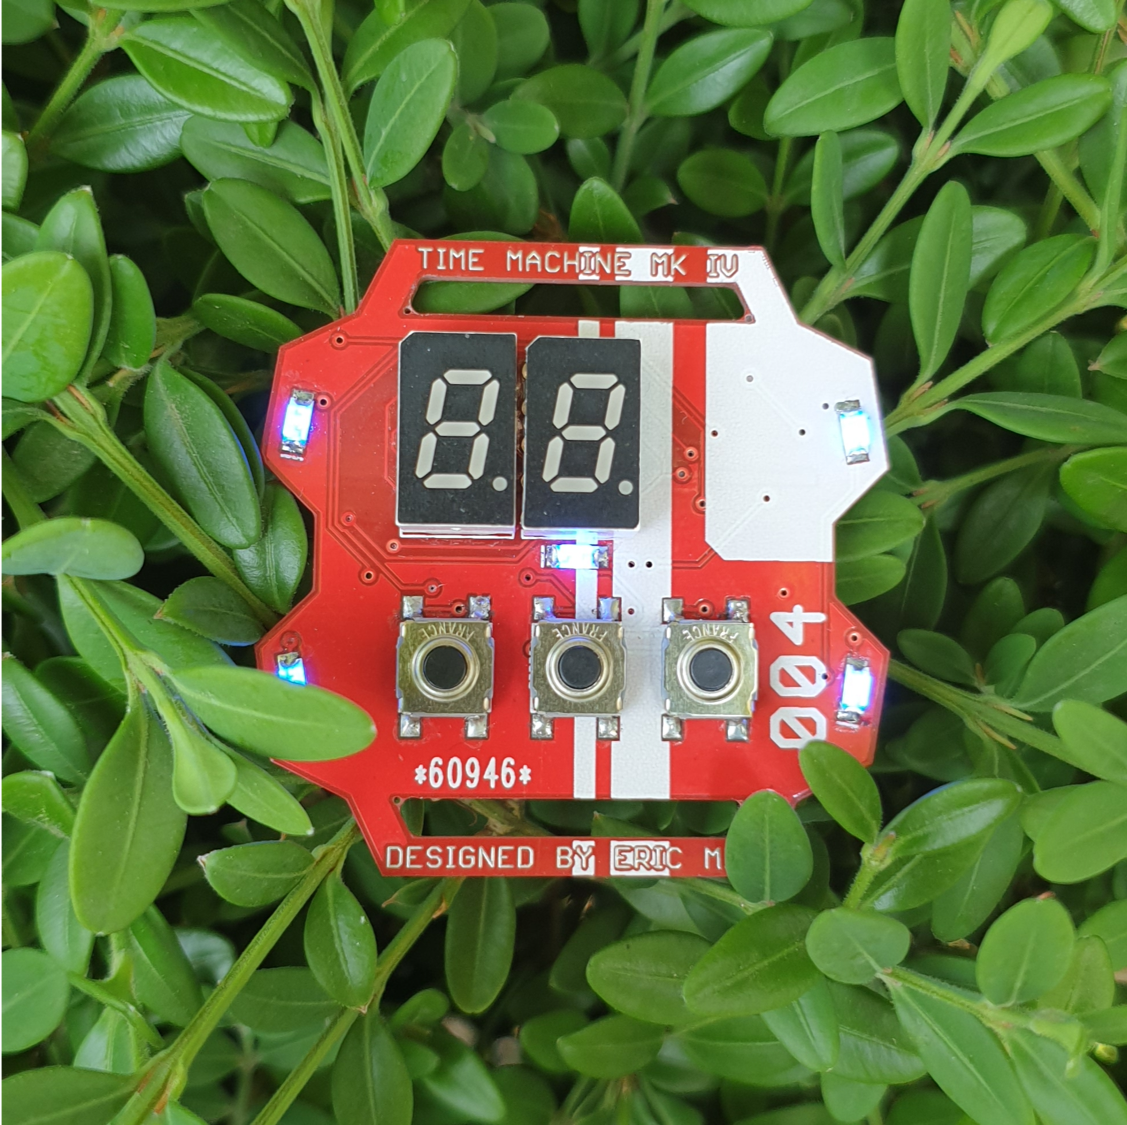
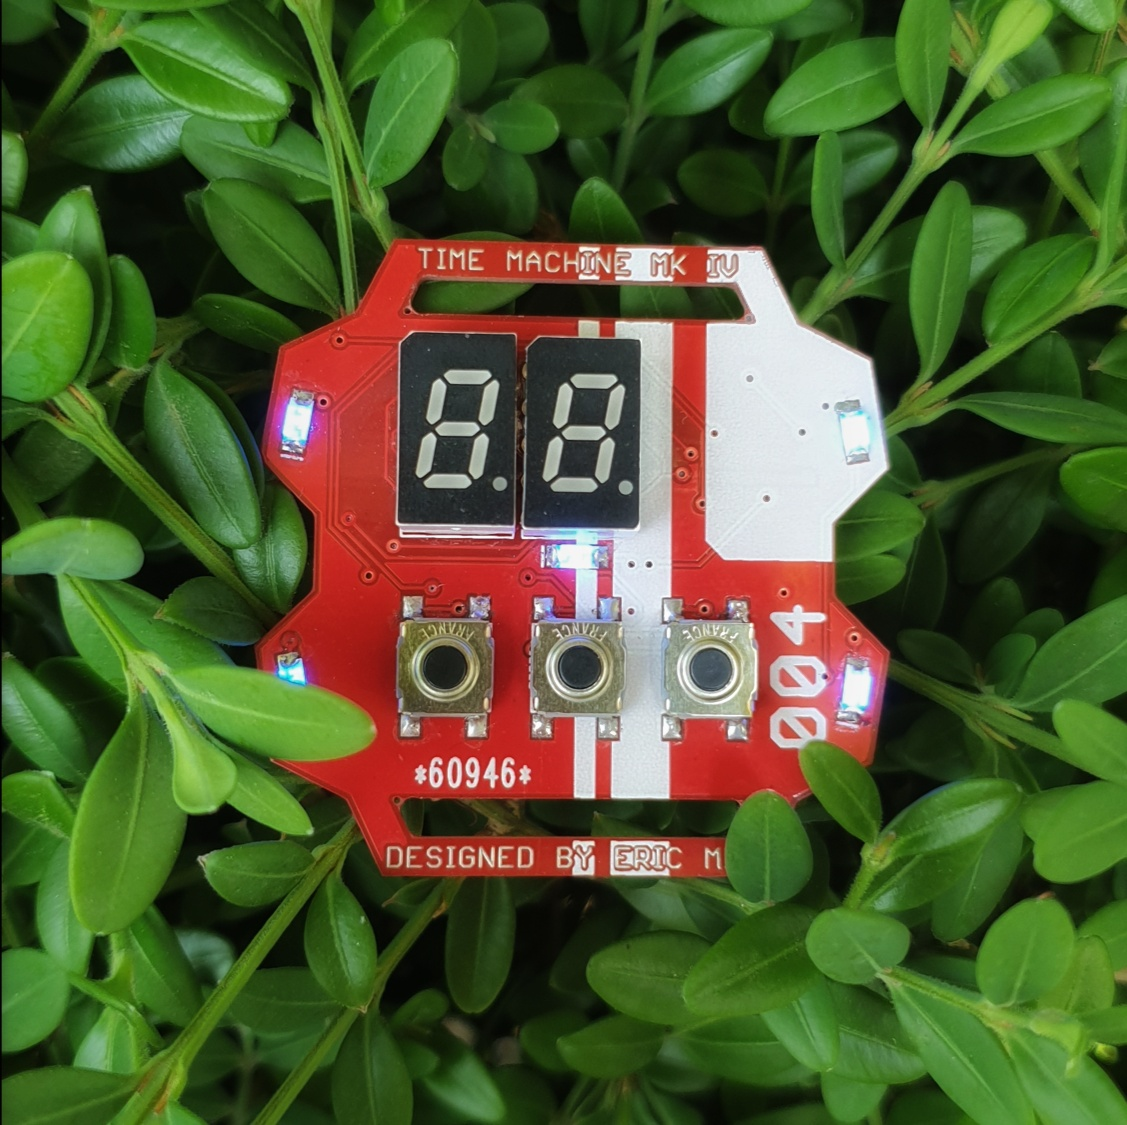
tm4

diff --git a/tm4.html b/tm4.html
@@ -32,16 +32,32 @@ Eric Min copyright (c) 2918 Eric Min
         <div class="mainbody">
             <p>THE TIME MACHINE MK. IV</p>
             <a>
-                The Time Machine Mk. 4 is my second major project after the Time Machine Mk. 2. It is a homemade digital wristwatch that is powered by a Nordic nRF52832 SoC and a 12mm coin-cell battery. I don't want to bore you out, so I'll go straight into the specs.
+                <center><img src="images/tm4ongrasssquare.png" style="width: 50%; padding-top: 5%; padding-bottom: 5%"></center>
+                <h1>INTRODUCTION</h1>
+                The Time Machine Mk. 4 is my second major project after the Time Machine Mk. 2. The incentive behind this project was to create a watch from scratch to replace my then-dying Pebble Time. The aim was to create a wristwatch that could do basic watch functionality while keeping a beautiful aesthetic. I think it turned out great. While the Time Machine can never replace my Pebble, it can certainly accopmlish some smartwatch functions with the nRF52832's built-in BLE features. I don't want to bore you for long, so let's get straight into the specs.
                 <br><br>
-                <li>Processor: nRF52832 Soc. 64MHz ARM cortex M4 with 64k RAM and 512k flash.</li>
-                <li>Power: 12mm coin-cell battery. About three days of battery life.</li>
-                <li>Display: If you can call it a display. Dual 7-segment LEDs with five auxiliary LEDs.</li>
-                <li>Input: Triple momentary tactile switches.</li>
-                <li>Dimensions: 43.18mm Width and Length, 10.2mm Thickness.</li>
-                <li>Strap: 22mm NATO strap.</li>
+                <h1>SPEC LIST</h1>
+                <li>PROCESSOR: nRF52832 Soc. 64MHz ARM cortex M4 with 64k RAM and 512k flash.</li>
+                <li>FIRMWARE: Espruino Javascript interpreter.</li>
+                <li>POWER: 12mm coin-cell battery. About three days of battery life.</li>
+                <li>DISPLAY: If you can call it a display. Dual 7-segment LEDs with five auxiliary LEDs.</li>
+                <li>INPUT: Triple momentary tactile switches.</li>
+                <li>SOUND: Mini piezo speaker.</li>
+                <li>DIMENSIONS: 43.18mm width and length, 10.2mm thickness.</li>
+                <li>STRAP: 22mm NATO strap.</li>
+                <br>
+                <h1>HARDWARE</h1>
+                On the hardware side of things, the watch houses a Nordic nRF52832 SoC. It is an ultra low-energy System-on-a-Chip that has built-in Bluetooth Low Energy features as well as a handful of other radios. Its excellent power management allows it to be powered for days on a 12mm Lithium Coin cell. Three clicky buttons serve as the input, capable of handling long presses as well as double/triple clicks. Dual 7-segment LEDs show the time, and five auxiliary LEDs serve either as indicator lights or bling. Yes, I know I could've slapped on an OLED screen for better graphics and battery life, but I believe the cyberpunk aesthetics from the LEDs are completely worth it. I personally think the watch looks gorgeous. There is a mini piezo buzzer capable of simple beeps and boops, but I haven't really implemented it in the firmware yet.
+                <br><br>
+                The nRF52832 chip sports a real time clock with an accuracy of +/-5 seconds a month. However, since the clock doesn't have a backup battery, the time is lost when the coin cell runs out of juice. However, with a Bluetooth connection to a computer or an Android smartphone, the time can easily be restored.
+                <br><br>
+                While the LEDs maintain a gorgeous aesthetic, it cripples the battery life. If I had used an OLED, for example, I believe the battery could have increased to about a week or more. Also, the segmented display becomes pretty dim after a few hours of use and stay that way until the battery dies. This is probably because the battery's nominal voltage of 3 volts is the minimum voltage for the display. The battery voltage is measured between 2.8 and 2.5 volts for the majority of the battery life. I think if I had used a 3.7v Lipo cell and a 3.3v regulator, the LEDs would stay at maximum brightness for the majority of the battery life.
+                <br><br>
+                <h1>SOFTWARE</h1>
+                The nRF52832 is programmed with Espruino, a Javascript interpreter for ARM microcontrollers, written by Gordon Williams. I chose it because I was not yet familiar with ARM-GCC. While much slower than C and consumes more power, it still allows easy firmware updates and most importantly, instant feedback from the REPL through a bluetooth connection. This is extremely handy when adding new features to the firmware, since I don't need to upload the entire firmware every time I need to test something out.
+                <br><br>
+                
 
-                <center><img src="images/tm4pics/horizontalironmantm4.jpg" style="width: 90%; padding-top: 10%; padding-bottom: 10%"></center>
 
                 
             </a>

diff --git a/css/style.css b/css/style.css
@@ -13,7 +13,7 @@ p {
     text-align: center;
     color: #FFFFFF;
     font-family: "Share Tech Mono", monospace;
-    font-size: 3vw;
+    font-size: 250%;
     line-height: 100%
 }
 
